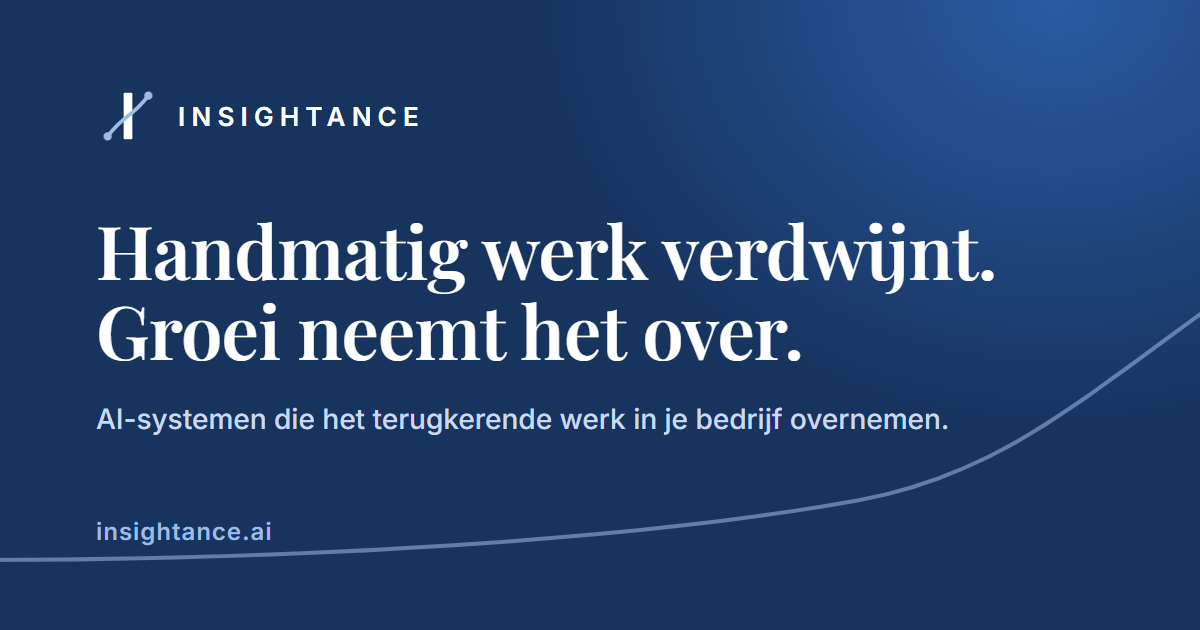
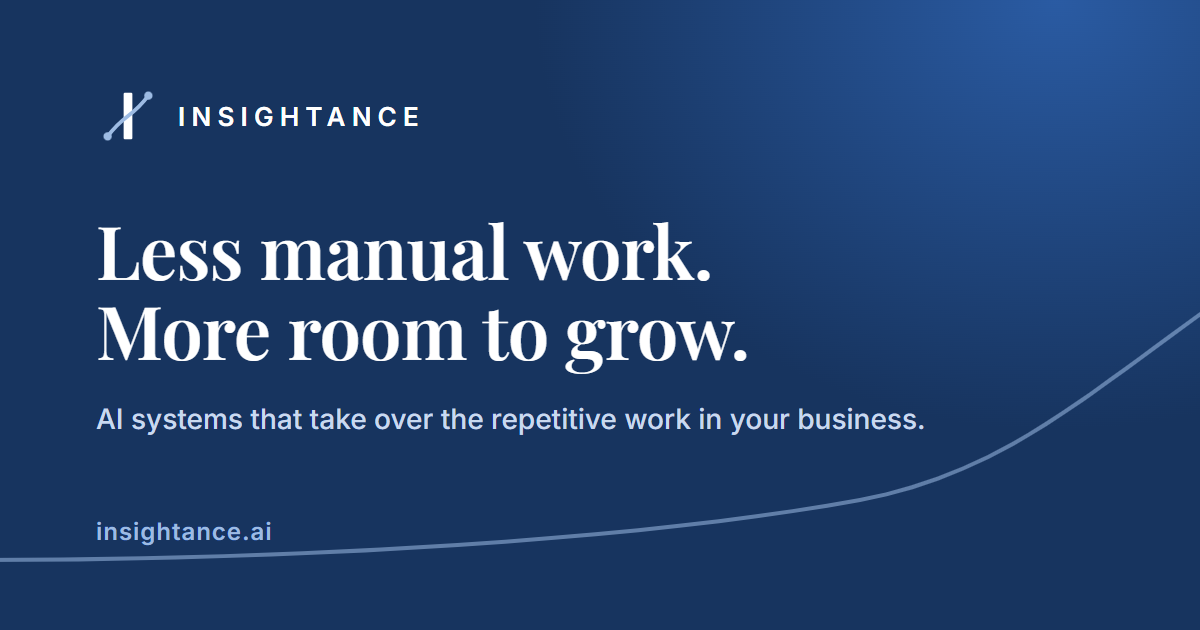
Website: automatische taalkeuze en Engels linkvoorbeeld
Site opent in het Engels als de eerste taal van het toestel niet Nederlands is; eigen NL/EN-keuze blijft onthouden. Linkvoorbeeld en og-teksten in het Engels.

Changed region(s): [[0.0925, 0.3317, 0.8325, 0.4825], [0.0617, 0.4825, 0.6783, 0.6032], [0.0925, 0.6333, 0.8017, 0.6937]]

diff --git a/docs/index.html b/docs/index.html
@@ -8,14 +8,15 @@
 <link rel="canonical" href="https://insightance.ai/">
 <meta property="og:type" content="website">
 <meta property="og:site_name" content="Insightance">
-<meta property="og:locale" content="nl_NL">
+<meta property="og:locale" content="en_US">
+<meta property="og:locale:alternate" content="nl_NL">
 <meta property="og:url" content="https://insightance.ai/">
-<meta property="og:title" content="Insightance | AI-automatisering voor ondernemers">
-<meta property="og:description" content="Insightance bouwt AI-systemen die het handmatige werk uit je bedrijf halen: offertes, administratie en klantcontact. Plan een vrijblijvend gesprek.">
+<meta property="og:title" content="Insightance | AI automation for business owners">
+<meta property="og:description" content="Insightance builds AI systems that take the manual work out of your business: quotes, admin and customer contact. Book a no-obligation call.">
 <meta property="og:image" content="https://insightance.ai/images/og-insightance.png">
 <meta property="og:image:width" content="1200">
 <meta property="og:image:height" content="630">
-<meta property="og:image:alt" content="Insightance: Handmatig werk verdwijnt. Groei neemt het over.">
+<meta property="og:image:alt" content="Insightance: Less manual work. More room to grow.">
 <meta name="twitter:card" content="summary_large_image">
 <script type="application/ld+json">{"@context": "https://schema.org", "@type": "ProfessionalService", "name": "Insightance", "url": "https://insightance.ai/", "logo": "https://insightance.ai/favicon-512.png", "image": "https://insightance.ai/images/og-insightance.png", "description": "Insightance bouwt AI-systemen die het handmatige werk uit je bedrijf halen: offertes, administratie en klantcontact. Plan een vrijblijvend gesprek.", "email": "info@insightance.ai", "telephone": "+31653340362", "address": {"@type": "PostalAddress", "addressLocality": "Amsterdam", "addressCountry": "NL"}, "areaServed": "NL", "founder": {"@type": "Person", "name": "Oussama Hlalouch", "jobTitle": "Oprichter"}, "sameAs": ["https://www.linkedin.com/in/oussama-hlalouch-49915514a"]}</script>
 <link rel="icon" href="favicon.ico" sizes="48x48">
@@ -1929,7 +1930,10 @@
   document.querySelectorAll('.lang').forEach(t => t.addEventListener('click', e => {
     const sp = e.target.closest('span[data-l]'); setLang(sp ? sp.dataset.l : (window.LANG === 'nl' ? 'en' : 'nl'));
   }));
-  try { if (localStorage.getItem('lang') === 'en') setLang('en'); } catch (e) {}
+  { let saved = null; try { saved = localStorage.getItem('lang'); } catch (e) {}
+    // geen eigen keuze: toestel met Nederlands als eerste taal krijgt NL, alle andere EN
+    const browserNl = /^nl/i.test((navigator.languages && navigator.languages[0]) || navigator.language || '');
+    if (saved === 'en' || (!saved && !browserNl)) setLang('en'); }
 
   // plek onthouden als iemand naar de automations-pagina gaat
   document.querySelectorAll('a[href="automations.html"], a[href="resultaten.html"], a[href="demo.html"], a[href="privacybeleid.html"]').forEach(a => a.addEventListener('click', () => { try { sessionStorage.setItem('homeY', String(Math.round(window.scrollY))); } catch (e) {} }));

diff --git a/docs/resultaten.html b/docs/resultaten.html
@@ -8,14 +8,15 @@
 <link rel="canonical" href="https://insightance.ai/resultaten.html">
 <meta property="og:type" content="website">
 <meta property="og:site_name" content="Insightance">
-<meta property="og:locale" content="nl_NL">
+<meta property="og:locale" content="en_US">
+<meta property="og:locale:alternate" content="nl_NL">
 <meta property="og:url" content="https://insightance.ai/resultaten.html">
-<meta property="og:title" content="Klantcases | Insightance">
-<meta property="og:description" content="Echte bedrijven, echte tijdwinst. Zie hoe MHL Installatieservice en FTUK uren per week terugwonnen met AI.">
+<meta property="og:title" content="Client cases | Insightance">
+<meta property="og:description" content="Real businesses, real time saved. See how MHL Installatieservice and FTUK won back hours every week with AI.">
 <meta property="og:image" content="https://insightance.ai/images/og-insightance.png">
 <meta property="og:image:width" content="1200">
 <meta property="og:image:height" content="630">
-<meta property="og:image:alt" content="Insightance: Handmatig werk verdwijnt. Groei neemt het over.">
+<meta property="og:image:alt" content="Insightance: Less manual work. More room to grow.">
 <meta name="twitter:card" content="summary_large_image">
 <link rel="icon" href="favicon.ico" sizes="48x48">
 <link rel="icon" type="image/svg+xml" href="favicon.svg">
@@ -773,7 +774,10 @@
     try { localStorage.setItem('lang', l); } catch (e) {}
   }
   document.querySelector('.lang').addEventListener('click', e => { const sp = e.target.closest('span[data-l]'); setLang(sp ? sp.dataset.l : (LANG === 'nl' ? 'en' : 'nl')); });
-  try { if (localStorage.getItem('lang') === 'en') setLang('en'); } catch (e) {}
+  { let saved = null; try { saved = localStorage.getItem('lang'); } catch (e) {}
+    // geen eigen keuze: toestel met Nederlands als eerste taal krijgt NL, alle andere EN
+    const browserNl = /^nl/i.test((navigator.languages && navigator.languages[0]) || navigator.language || '');
+    if (saved === 'en' || (!saved && !browserNl)) setLang('en'); }
 
 
   // "Lees het volledige verhaal": soepel open- en dichtklappen

diff --git a/docs/demo.html b/docs/demo.html
@@ -8,14 +8,15 @@
 <link rel="canonical" href="https://insightance.ai/demo.html">
 <meta property="og:type" content="website">
 <meta property="og:site_name" content="Insightance">
-<meta property="og:locale" content="nl_NL">
+<meta property="og:locale" content="en_US">
+<meta property="og:locale:alternate" content="nl_NL">
 <meta property="og:url" content="https://insightance.ai/demo.html">
-<meta property="og:title" content="Interactieve demo | Insightance">
-<meta property="og:description" content="Kijk live mee hoe AI het werk overneemt, van een WhatsApp-bericht tot een ingeplande afspraak.">
+<meta property="og:title" content="Interactive demo | Insightance">
+<meta property="og:description" content="Watch live how AI takes over the work, from a WhatsApp message to a booked appointment.">
 <meta property="og:image" content="https://insightance.ai/images/og-insightance.png">
 <meta property="og:image:width" content="1200">
 <meta property="og:image:height" content="630">
-<meta property="og:image:alt" content="Insightance: Handmatig werk verdwijnt. Groei neemt het over.">
+<meta property="og:image:alt" content="Insightance: Less manual work. More room to grow.">
 <meta name="twitter:card" content="summary_large_image">
 <link rel="icon" href="favicon.ico" sizes="48x48">
 <link rel="icon" type="image/svg+xml" href="favicon.svg">
@@ -1087,7 +1088,10 @@
     try { localStorage.setItem('lang', l); } catch (e) {}
   }
   document.querySelector('.lang').addEventListener('click', e => { const sp = e.target.closest('span[data-l]'); setLang(sp ? sp.dataset.l : (LANG === 'nl' ? 'en' : 'nl')); });
-  try { if (localStorage.getItem('lang') === 'en') setLang('en'); } catch (e) {}
+  { let saved = null; try { saved = localStorage.getItem('lang'); } catch (e) {}
+    // geen eigen keuze: toestel met Nederlands als eerste taal krijgt NL, alle andere EN
+    const browserNl = /^nl/i.test((navigator.languages && navigator.languages[0]) || navigator.language || '');
+    if (saved === 'en' || (!saved && !browserNl)) setLang('en'); }
 
   // golvende achtergrond bovenaan + in het blauwe blok
   function waves(cv, dark) {

diff --git a/docs/automations.html b/docs/automations.html
@@ -8,14 +8,15 @@
 <link rel="canonical" href="https://insightance.ai/automations.html">
 <meta property="og:type" content="website">
 <meta property="og:site_name" content="Insightance">
-<meta property="og:locale" content="nl_NL">
+<meta property="og:locale" content="en_US">
+<meta property="og:locale:alternate" content="nl_NL">
 <meta property="og:url" content="https://insightance.ai/automations.html">
 <meta property="og:title" content="Automations & agents | Insightance">
-<meta property="og:description" content="Voorbeelden van AI-systemen die we op jouw bedrijf afstemmen, van klantcontact tot finance en HR.">
+<meta property="og:description" content="Examples of AI systems we tailor to your business, from customer contact to finance and HR.">
 <meta property="og:image" content="https://insightance.ai/images/og-insightance.png">
 <meta property="og:image:width" content="1200">
 <meta property="og:image:height" content="630">
-<meta property="og:image:alt" content="Insightance: Handmatig werk verdwijnt. Groei neemt het over.">
+<meta property="og:image:alt" content="Insightance: Less manual work. More room to grow.">
 <meta name="twitter:card" content="summary_large_image">
 <link rel="icon" href="favicon.ico" sizes="48x48">
 <link rel="icon" type="image/svg+xml" href="favicon.svg">
@@ -628,7 +629,10 @@
   document.querySelector('.lang').addEventListener('click', e => { const sp = e.target.closest('span[data-l]'); setLang(sp ? sp.dataset.l : (LANG === 'nl' ? 'en' : 'nl')); });
   if (mobile()) sel = -1;
   render();
-  try { if (localStorage.getItem('lang') === 'en') setLang('en'); } catch (e) {}
+  { let saved = null; try { saved = localStorage.getItem('lang'); } catch (e) {}
+    // geen eigen keuze: toestel met Nederlands als eerste taal krijgt NL, alle andere EN
+    const browserNl = /^nl/i.test((navigator.languages && navigator.languages[0]) || navigator.language || '');
+    if (saved === 'en' || (!saved && !browserNl)) setLang('en'); }
 
   // golvende lijntjes in het donkerblauwe blok
   (function () {

diff --git a/docs/privacybeleid.html b/docs/privacybeleid.html
@@ -8,14 +8,15 @@
 <link rel="canonical" href="https://insightance.ai/privacybeleid.html">
 <meta property="og:type" content="website">
 <meta property="og:site_name" content="Insightance">
-<meta property="og:locale" content="nl_NL">
+<meta property="og:locale" content="en_US">
+<meta property="og:locale:alternate" content="nl_NL">
 <meta property="og:url" content="https://insightance.ai/privacybeleid.html">
-<meta property="og:title" content="Privacybeleid | Insightance">
-<meta property="og:description" content="Hoe Insightance omgaat met je persoonsgegevens.">
+<meta property="og:title" content="Privacy policy | Insightance">
+<meta property="og:description" content="How Insightance handles your personal data.">
 <meta property="og:image" content="https://insightance.ai/images/og-insightance.png">
 <meta property="og:image:width" content="1200">
 <meta property="og:image:height" content="630">
-<meta property="og:image:alt" content="Insightance: Handmatig werk verdwijnt. Groei neemt het over.">
+<meta property="og:image:alt" content="Insightance: Less manual work. More room to grow.">
 <meta name="twitter:card" content="summary_large_image">
 <link rel="icon" href="favicon.ico" sizes="48x48">
 <link rel="icon" type="image/svg+xml" href="favicon.svg">
@@ -864,7 +865,10 @@
   }
   document.querySelector('.lang').addEventListener('click', e => { const sp = e.target.closest('span[data-l]'); setLang(sp ? sp.dataset.l : (LANG === 'nl' ? 'en' : 'nl')); });
   renderPrivacy();
-  try { if (localStorage.getItem('lang') === 'en') setLang('en'); } catch (e) {}
+  { let saved = null; try { saved = localStorage.getItem('lang'); } catch (e) {}
+    // geen eigen keuze: toestel met Nederlands als eerste taal krijgt NL, alle andere EN
+    const browserNl = /^nl/i.test((navigator.languages && navigator.languages[0]) || navigator.language || '');
+    if (saved === 'en' || (!saved && !browserNl)) setLang('en'); }
 
   // golvende achtergrond bovenaan + in het blauwe blok
   function waves(cv, dark) {

diff --git a/outputs/logo-2026/_maak_og.py b/outputs/logo-2026/_maak_og.py
@@ -1,0 +1,26 @@
+"""Linkvoorbeeld-afbeelding (Open Graph, 1200x630) voor insightance.ai. Lijn loopt onder de tekst, nooit erdoor."""
+import pathlib
+from playwright.sync_api import sync_playwright
+R = pathlib.Path(__file__).resolve().parents[2]
+F = (R / 'docs/fonts').as_uri()
+ICON = ('<svg width="64" height="64" viewBox="0 0 44 44" fill="none"><rect x="19" y="6" width="6" height="32" rx="1" fill="#fff"/>'
+        '<path d="M8 36 Q14 28 22 22 Q30 16 36 8" stroke="#9DBBE3" stroke-width="2.6" fill="none" stroke-linecap="round"/>'
+        '<circle cx="8" cy="36" r="2.8" fill="#9DBBE3"/><circle cx="36" cy="8" r="2.8" fill="#9DBBE3"/></svg>')
+HTML = f'''<html><head><style>
+@font-face{{font-family:Inter;font-weight:400 700;src:url('{F}/inter-latin.woff2')}}
+@font-face{{font-family:Playfair;font-weight:500 700;src:url('{F}/playfair-latin.woff2')}}
+*{{margin:0;padding:0;box-sizing:border-box}} body{{width:1200px;height:630px;overflow:hidden}}
+.c{{position:relative;width:1200px;height:630px;background:radial-gradient(70% 110% at 88% 0%,#2A5BA3 0%,#17345F 62%);color:#fff;font-family:Inter;padding:84px 96px}}
+</style></head><body><div class="c">
+<svg style="position:absolute;inset:0" width="1200" height="630" fill="none"><path d="M-20 560 C 300 560, 640 540, 860 500 C 1000 474, 1080 400, 1220 300" stroke="#9DBBE3" stroke-opacity=".55" stroke-width="4"/></svg>
+<div style="display:flex;align-items:center;gap:18px">{ICON}<span style="font:600 26px Inter;letter-spacing:.24em">INSIGHTANCE</span></div>
+<div style="margin-top:62px;font:600 74px/1.08 Playfair;letter-spacing:-.01em">Less manual work.<br>More room to grow.</div>
+<div style="margin-top:30px;font:500 28px/1.4 Inter;color:#C9D9EF;max-width:1000px">AI systems that take over the repetitive work in your business.</div>
+<div style="position:absolute;left:96px;bottom:84px;font:600 24px Inter;color:#9DBBE3;letter-spacing:.04em">insightance.ai</div>
+</div></body></html>'''
+with sync_playwright() as p:
+    b = p.chromium.launch(channel='chrome'); pg = b.new_page(viewport={'width': 1200, 'height': 630})
+    t = pathlib.Path(__file__).parent / '_og.html'; t.write_text(HTML, encoding='utf-8')
+    pg.goto(t.as_uri()); pg.wait_for_timeout(600)
+    pg.screenshot(path=str(R / 'docs/images/og-insightance.png')); b.close(); t.unlink()
+print('ok')
